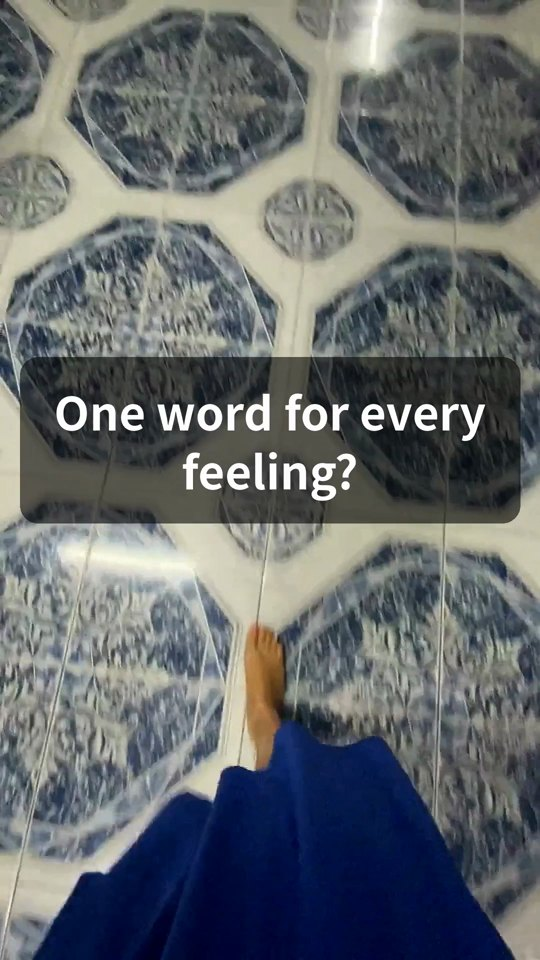
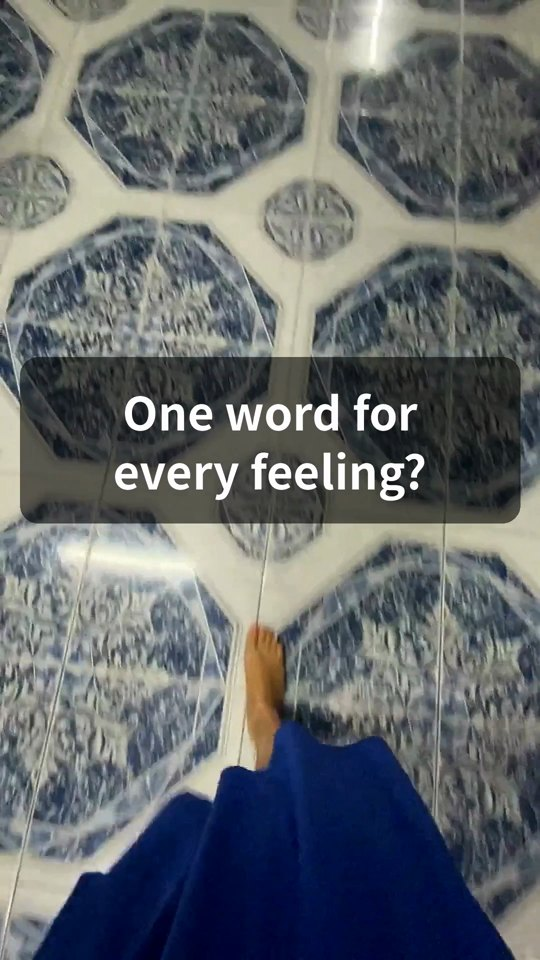
cards: balanced line wrapping (min raggedness) so a CTA never ends on a lone 'no?' — rebuild ep006-ep011

Changed region(s): [[0.0889, 0.4062, 0.9185, 0.5312]]

diff --git a/tools/build.py b/tools/build.py
@@ -99,16 +99,33 @@ def clean(text):
 
 
 def wrap(draw, text, fnt, max_w):
-    words, lines, cur = text.split(" "), [], ""
-    for w in words:
-        trial = (cur + " " + w).strip()
-        if draw.textlength(trial, font=fnt) <= max_w or not cur:
-            cur = trial
-        else:
-            lines.append(cur); cur = w
-    if cur:
-        lines.append(cur)
-    return lines
+    """단어 단위 최소 raggedness 줄바꿈.
+
+    왼쪽부터 채우는 방식은 마지막 줄에 단어 하나만 남기 쉽다(예: "Would you study here? Yes or / no?").
+    줄 폭의 제곱합을 최소로 하는 분할을 골라 두 줄이 고르게 나뉜다. 글자 수·줄 수는 그대로다.
+    """
+    words = text.split(" ")
+    n = len(words)
+    if n <= 1:
+        return [text]
+    INF = float("inf")
+    dp = [INF] * (n + 1)
+    prev = [0] * (n + 1)
+    dp[0] = 0.0
+    for j in range(1, n + 1):
+        for i in range(j):
+            w = draw.textlength(" ".join(words[i:j]), font=fnt)
+            if w > max_w and j - i > 1:   # 넘치는 줄은 단어 하나짜리만 허용
+                continue
+            cost = (max_w - w) ** 2
+            if dp[i] + cost < dp[j]:
+                dp[j] = dp[i] + cost
+                prev[j] = i
+    lines, j = [], n
+    while j > 0:
+        lines.append(" ".join(words[prev[j]:j]))
+        j = prev[j]
+    return lines[::-1]
 
 
 def run(cmd):
